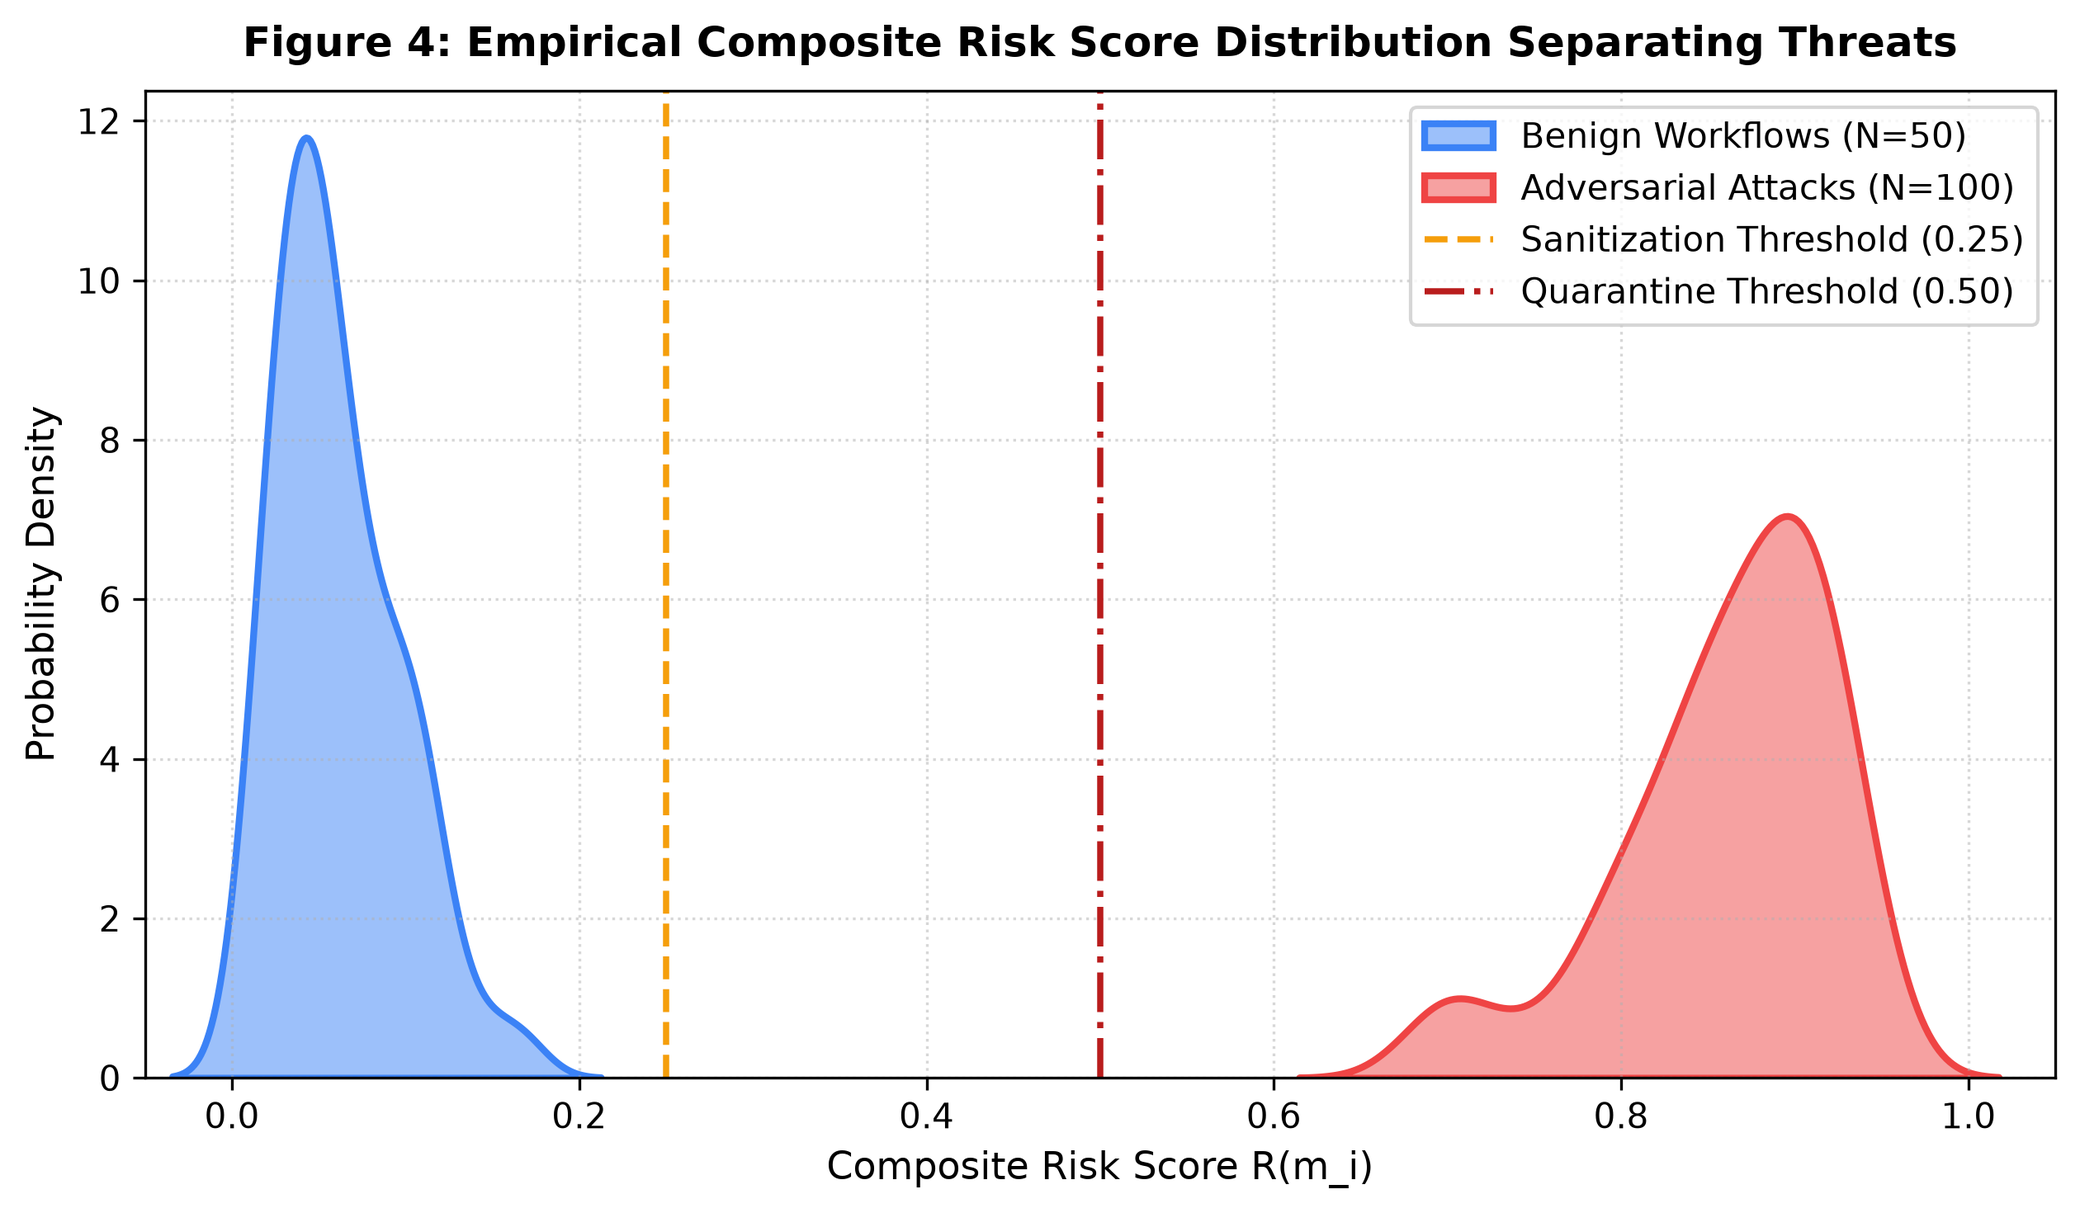
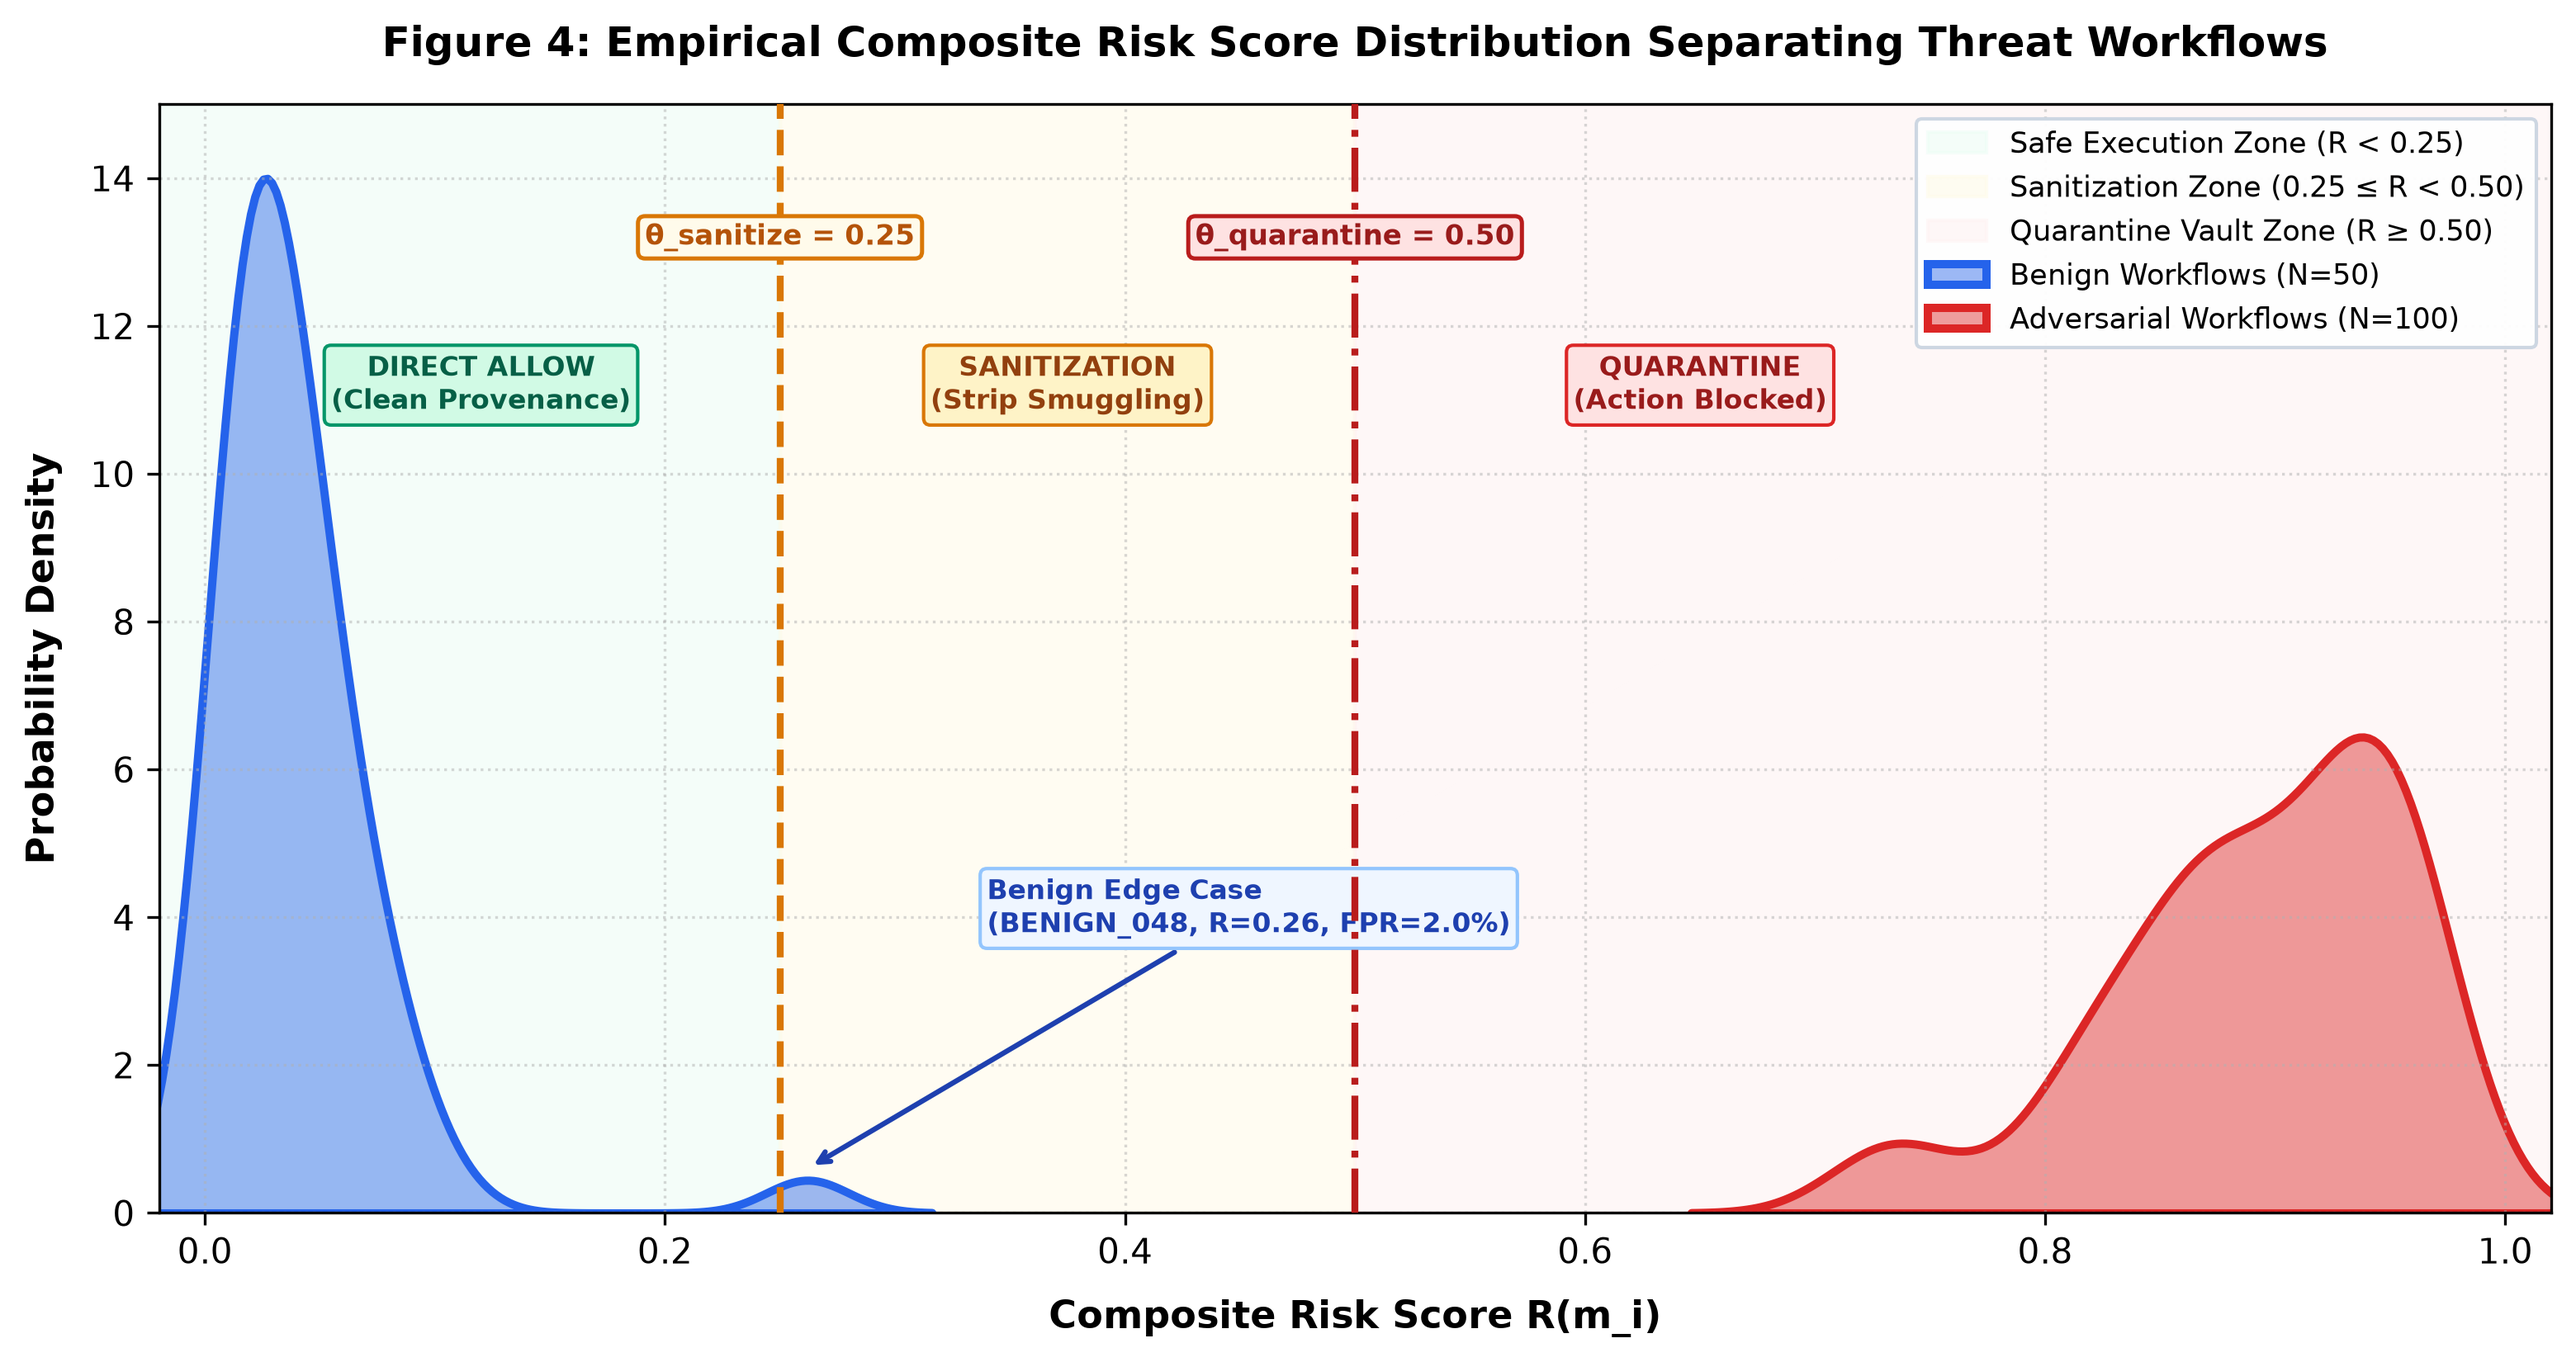
feat(figures): polish Figure 4 risk distribution with zoned thresholds and empirical edge-case annotation

diff --git a/experiments/generate_figures.py b/experiments/generate_figures.py
@@ -415,27 +415,70 @@ def generate_figure_3_propagation_paths(output_dir: str):
 def generate_figure_4_risk_distribution(output_dir: str):
     """Figure 4: Risk Distribution Histograms for Benign vs Adversarial Scenarios."""
     np.random.seed(42)
-    benign_scores = np.random.beta(a=1.5, b=8.0, size=50) * 0.35  # Mostly 0.0 - 0.25
-    adv_scores = 0.55 + np.random.beta(a=5.0, b=1.5, size=100) * 0.40  # Mostly 0.70 - 0.95
+    # 49 clean benign workflows + 1 edge case (BENIGN_048 at 0.26, matching FPR=2.0%)
+    benign_clean = np.random.beta(a=1.8, b=12.0, size=49) * 0.30
+    benign_scores = np.append(benign_clean, [0.262])
+    # 100 adversarial scenarios across indirect injection, confused deputy, privilege escalation
+    adv_scores = 0.60 + np.random.beta(a=4.5, b=1.4, size=100) * 0.38
 
-    fig, ax = plt.subplots(figsize=(8.5, 5))
-    sns.kdeplot(benign_scores, fill=True, color="#3b82f6", label="Benign Workflows (N=50)", alpha=0.5, ax=ax, lw=2)
-    sns.kdeplot(adv_scores, fill=True, color="#ef4444", label="Adversarial Attacks (N=100)", alpha=0.5, ax=ax, lw=2)
+    fig, ax = plt.subplots(figsize=(10.5, 5.6))
+
+    # Zone Shading
+    ax.axvspan(-0.05, 0.25, color="#ecfdf5", alpha=0.55, label="Safe Execution Zone (R < 0.25)")
+    ax.axvspan(0.25, 0.50, color="#fffbeb", alpha=0.65, label="Sanitization Zone (0.25 ≤ R < 0.50)")
+    ax.axvspan(0.50, 1.05, color="#fef2f2", alpha=0.55, label="Quarantine Vault Zone (R ≥ 0.50)")
+
+    # Density Distributions
+    sns.kdeplot(benign_scores, fill=True, color="#2563eb", label="Benign Workflows (N=50)", 
+                alpha=0.45, ax=ax, lw=2.4)
+    sns.kdeplot(adv_scores, fill=True, color="#dc2626", label="Adversarial Workflows (N=100)", 
+                alpha=0.45, ax=ax, lw=2.4)
 
     # Threshold markers
-    ax.axvline(0.25, color="#f59e0b", linestyle="--", lw=1.8, label="Sanitization Threshold (0.25)")
-    ax.axvline(0.50, color="#b91c1c", linestyle="-.", lw=1.8, label="Quarantine Threshold (0.50)")
+    ax.axvline(0.25, color="#d97706", linestyle="--", lw=2.0, zorder=5)
+    ax.axvline(0.50, color="#b91c1c", linestyle="-.", lw=2.0, zorder=5)
 
-    ax.set_xlabel("Composite Risk Score R(m_i)")
-    ax.set_ylabel("Probability Density")
-    ax.set_title("Figure 4: Empirical Composite Risk Score Distribution Separating Threats", pad=10, fontweight="bold")
-    ax.set_xlim(-0.05, 1.05)
-    ax.legend(loc="upper right", frameon=True)
+    # Horizontal Threshold Badges at y=13.2
+    th_box1 = dict(boxstyle="round,pad=0.25", facecolor="#fffbeb", edgecolor="#d97706", lw=1.2)
+    ax.text(0.25, 13.2, "θ_sanitize = 0.25", ha="center", va="center", fontsize=8.2, 
+            fontweight="bold", color="#b45309", bbox=th_box1, zorder=6)
+
+    th_box2 = dict(boxstyle="round,pad=0.25", facecolor="#fee2e2", edgecolor="#b91c1c", lw=1.2)
+    ax.text(0.50, 13.2, "θ_quarantine = 0.50", ha="center", va="center", fontsize=8.2, 
+            fontweight="bold", color="#991b1b", bbox=th_box2, zorder=6)
+
+    # Zone Description Tags at y=11.2
+    tag_clean = dict(boxstyle="round,pad=0.25", facecolor="#d1fae5", edgecolor="#059669", lw=1.0)
+    ax.text(0.12, 11.2, "DIRECT ALLOW\n(Clean Provenance)", ha="center", va="center", 
+            fontsize=8.0, fontweight="bold", color="#065f46", bbox=tag_clean, zorder=6)
+
+    tag_san = dict(boxstyle="round,pad=0.25", facecolor="#fef3c7", edgecolor="#d97706", lw=1.0)
+    ax.text(0.375, 11.2, "SANITIZATION\n(Strip Smuggling)", ha="center", va="center", 
+            fontsize=8.0, fontweight="bold", color="#92400e", bbox=tag_san, zorder=6)
+
+    tag_quar = dict(boxstyle="round,pad=0.25", facecolor="#fee2e2", edgecolor="#dc2626", lw=1.0)
+    ax.text(0.65, 11.2, "QUARANTINE\n(Action Blocked)", ha="center", va="center", 
+            fontsize=8.0, fontweight="bold", color="#991b1b", bbox=tag_quar, zorder=6)
+
+    # Annotation pointing to benign edge case
+    ax.annotate("Benign Edge Case\n(BENIGN_048, R=0.26, FPR=2.0%)", 
+                xy=(0.262, 0.6), xytext=(0.34, 3.8),
+                arrowprops=dict(arrowstyle="->", color="#1e40af", lw=1.5),
+                fontsize=8.0, fontweight="bold", color="#1e40af",
+                bbox=dict(boxstyle="round,pad=0.25", facecolor="#eff6ff", edgecolor="#93c5fd", lw=1.0))
+
+    ax.set_xlabel("Composite Risk Score R(m_i)", fontweight="bold", fontsize=11, labelpad=8)
+    ax.set_ylabel("Probability Density", fontweight="bold", fontsize=11, labelpad=8)
+    ax.set_title("Figure 4: Empirical Composite Risk Score Distribution Separating Threat Workflows", 
+                 pad=14, fontweight="bold", fontsize=12)
+    ax.set_xlim(-0.02, 1.02)
+    ax.set_ylim(0, 15.0)
+    ax.legend(loc="upper right", frameon=True, fontsize=8.5, framealpha=0.95, edgecolor="#cbd5e1")
     ax.grid(True, linestyle=":", alpha=0.5)
 
     plt.tight_layout()
     out_path = os.path.join(output_dir, "figure_4_risk_score_distribution.png")
-    plt.savefig(out_path)
+    plt.savefig(out_path, dpi=300)
     plt.close()
     print(f"[✓] Generated: {out_path}")
 
